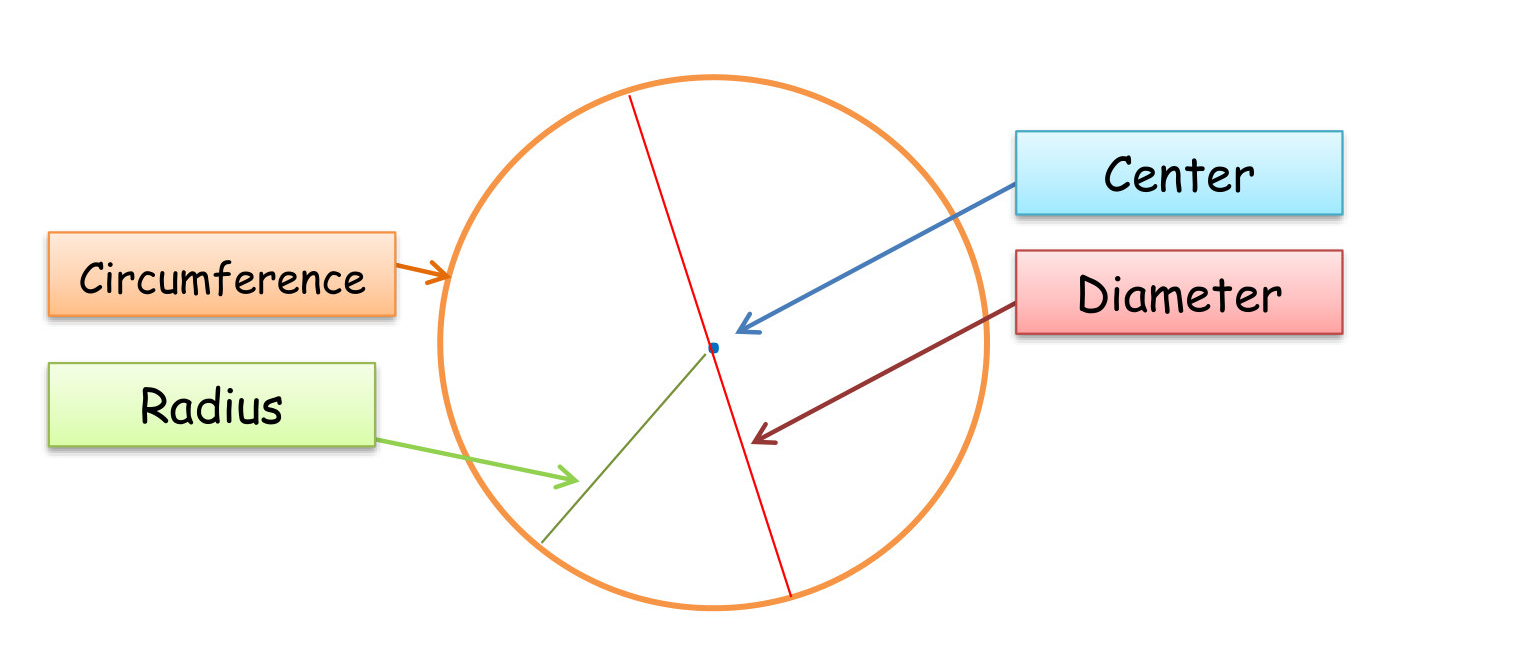
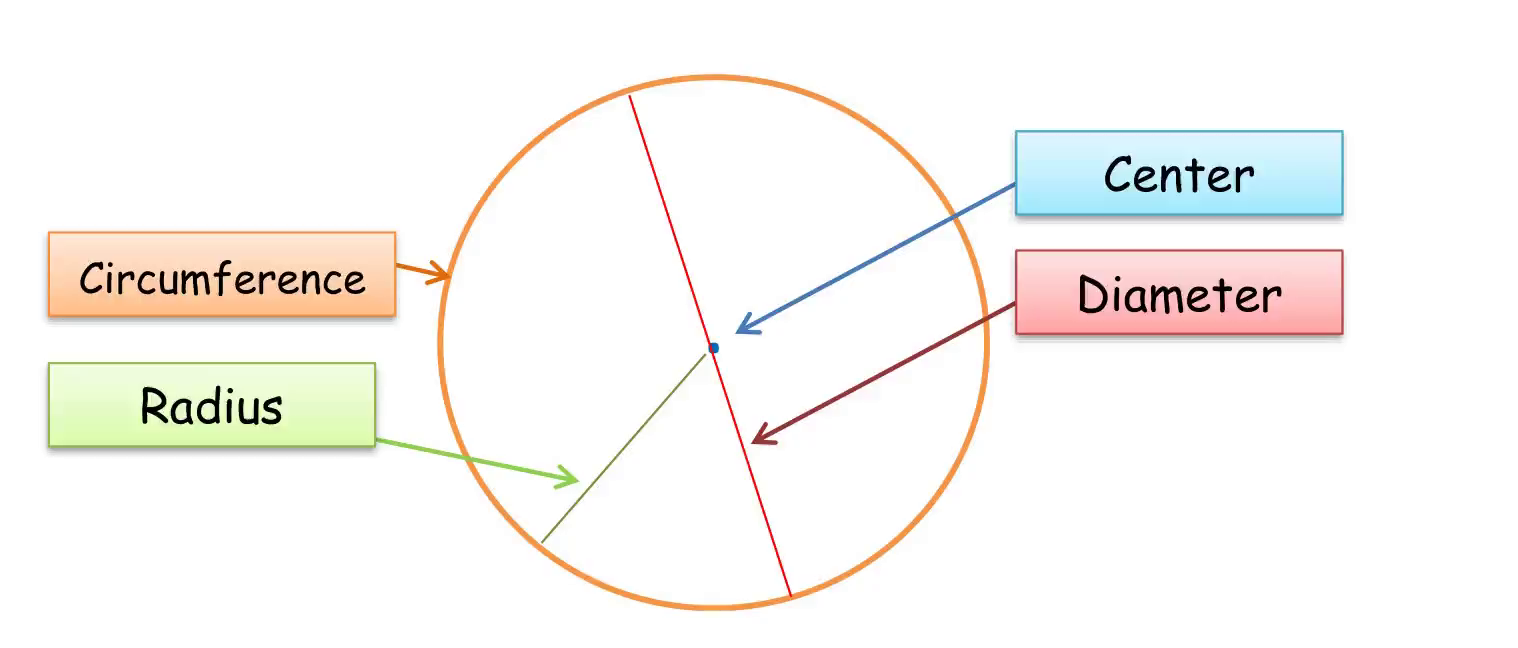
p5m07a v165: poster taken from the video's first frame

diff --git a/sw.js b/sw.js
@@ -1,5 +1,5 @@
 // Bump on every release so iPads drop the old copy (docs/04-qa-and-release.md).
-const CACHE = "ebooks-v164";
+const CACHE = "ebooks-v165";
 
 self.addEventListener("install", (event) => {
   self.skipWaiting();
